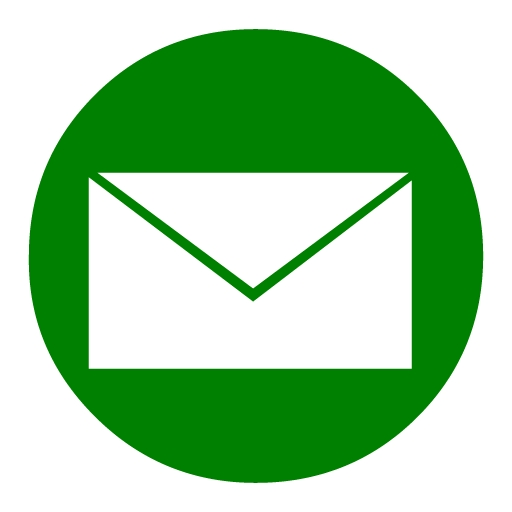
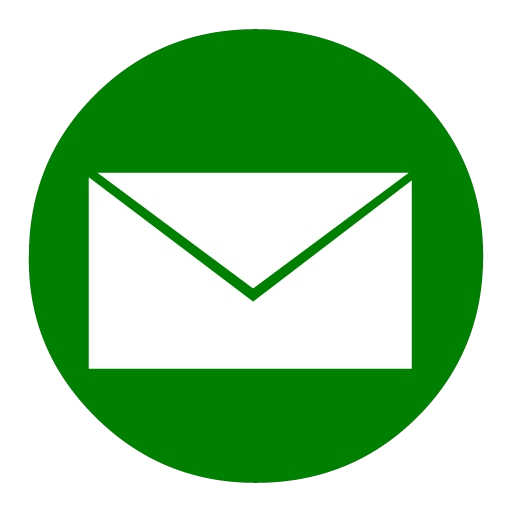
Add process images

Changed region(s): [[0.5312, 0.5312, 0.5625, 0.5625], [0.2812, 0.4062, 0.3125, 0.4375]]

diff --git a/index.html b/index.html
@@ -188,7 +188,7 @@
 
         <div class="row mt centered">
             <div class="col-lg-4">
-                <img src="/static/img/speak.png" width="180" alt="">
+                <img src="/static/img/process_01_email.jpg" width="180" alt="">
                 <h2>1. All in your inbox</h2>
                 <hr><p>
                 No expensive new software required.<br>
@@ -197,7 +197,7 @@
             </div><!--/col-lg-4 -->
 
             <div class="col-lg-4">
-                <img src="/static/img/mic.png" width="180" alt="">
+                <img src="/static/img/process_02_payment.jpg" width="180" alt="">
                 <h2>2. Effortless payment</h2>
                 <hr><p>
                 A Paypal invoice direct to you inbox.<br>
@@ -206,7 +206,7 @@
             </div><!--/col-lg-4 -->
 
             <div class="col-lg-4">
-                <img src="/static/img/opensource.png" width="180" alt="">
+                <img src="/static/img/process_03_win.jpg" width="180" alt="">
                 <h2>3. Receive your dashboard</h2>
                 <hr><p>
 		Your raw data is automatically analysed.<br>
